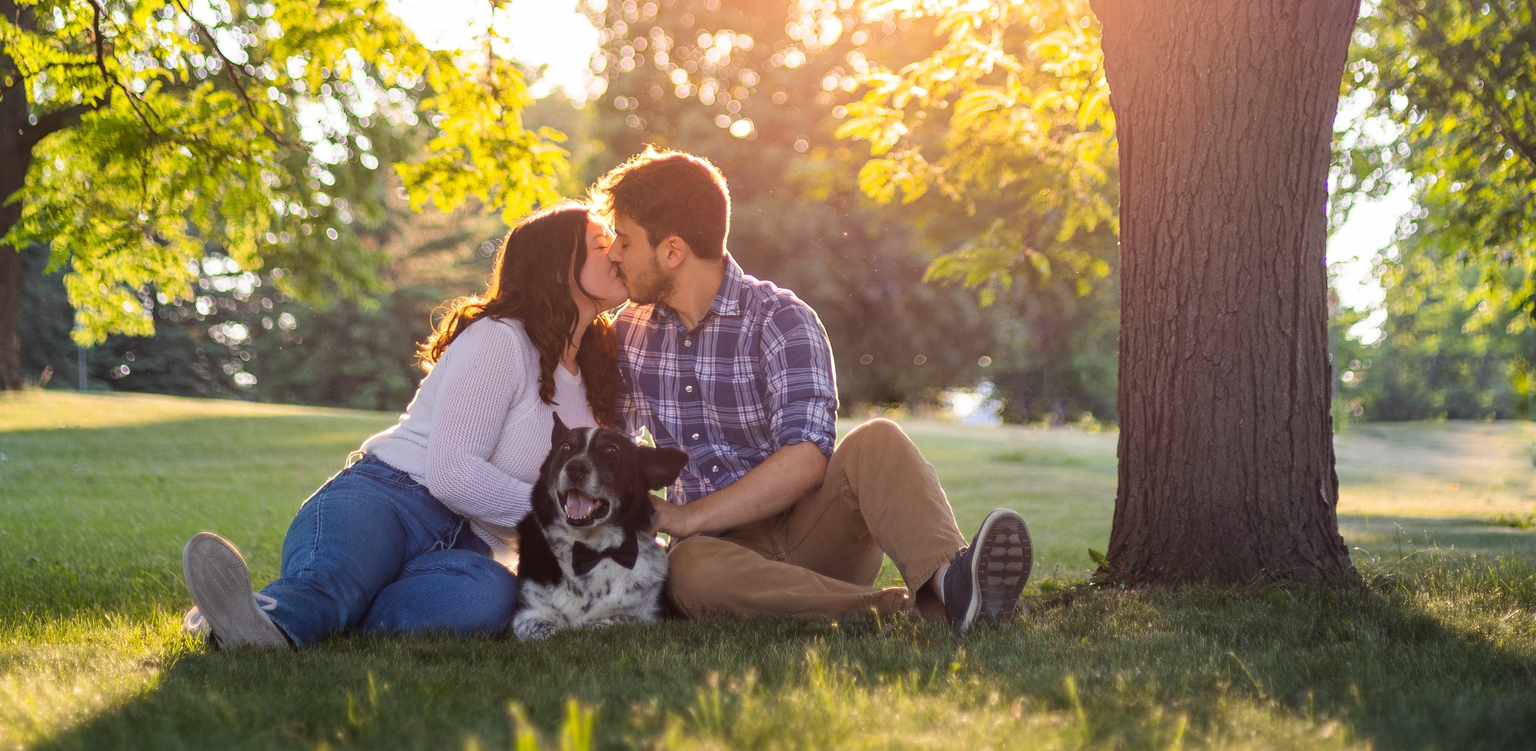
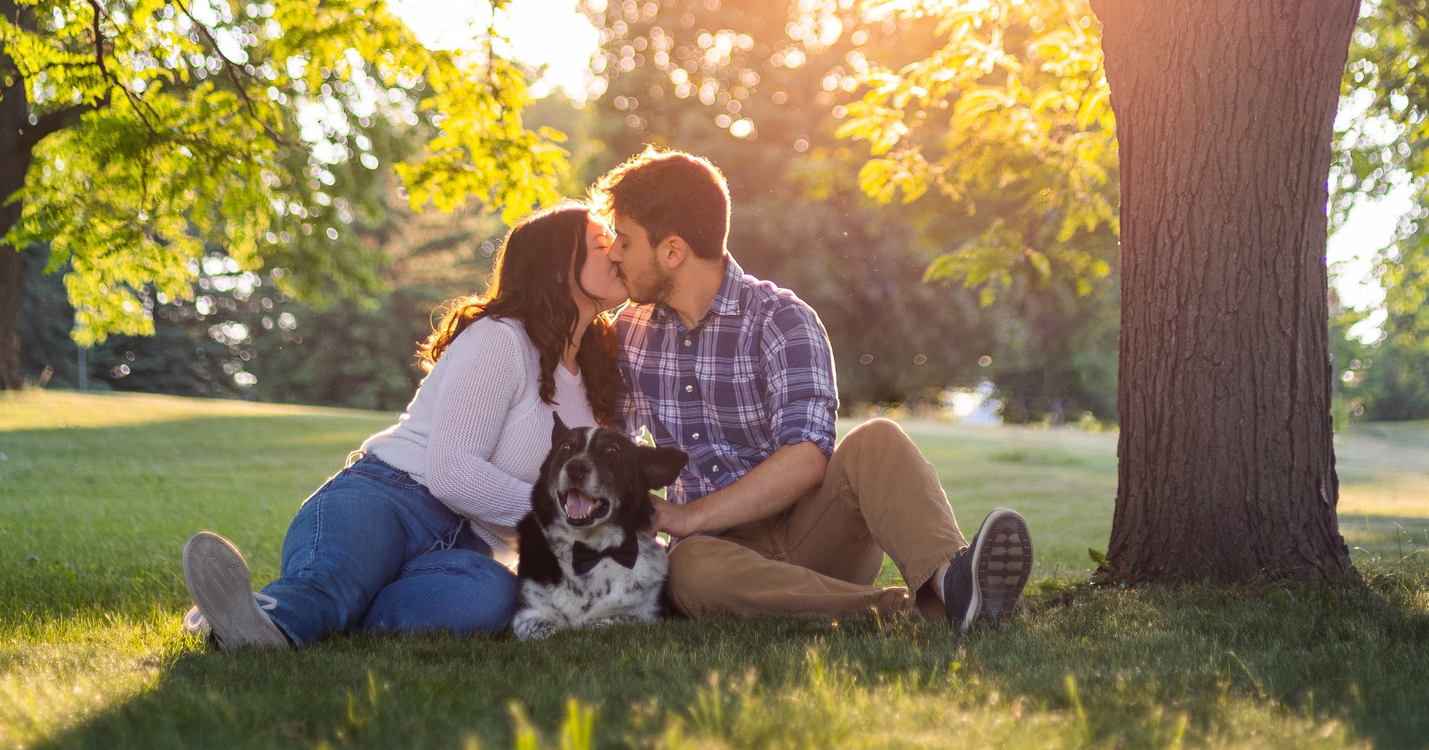
home page setup

diff --git a/src/index.css b/src/index.css
@@ -20,3 +20,118 @@ code {
   /* other formats include: 'woff2', 'truetype, 'opentype',
                             'embedded-opentype', and 'svg' */
 }
+
+.hero-container {
+  /* background: url('/images/img-home.jpg') center center/cover no-repeat; */
+  height: 100vh;
+  width: 100%;
+  display: flex;
+  flex-direction: column;
+  justify-content: center;
+  align-items: center;
+  box-shadow: inset 0 0 0 1000px rgba(0, 0, 0, 0.2);
+  object-fit: contain;
+}
+
+.hero-container > img {
+  object-fit: cover;
+  width: 100%;
+  height: 100%;
+  position: fixed;
+  z-index: -1;
+}
+
+.hero-container > h1 {
+  font-family: Hatton;
+  color: #fff;
+  font-size: 100px;
+  margin-bottom: -50px;
+}
+
+.hero-container > p {
+  font-family: Hatton;
+  color: #fff;
+  font-size: 50px;
+  /* margin-top: -100px; */
+  /* margin-bottom: 70px; */
+}
+
+.hero-btns {
+  margin-top: 32px;
+}
+
+.hero-btns .btn {
+  margin: 6px;
+}
+
+.fa-play-circle {
+  margin-left: 4px;
+}
+
+@media screen and (max-width: 960px) {
+  .hero-container > h1 {
+    font-size: 70px;
+    /* margin-top: -150px; */
+  }
+  .hero-container > p {
+    font-size: 35px;
+    /* margin-top: -150px; */
+    /* margin-bottom: 200px; */
+  }
+}
+
+@media screen and (max-width: 768px) {
+  .hero-container > h1 {
+    font-size: 50px;
+    /* margin-top: -100px; */
+  }
+  .hero-container > p {
+    font-size: 25px;
+    /* margin-top: -100px; */
+    /* margin-bottom: 105px; */
+  }
+
+  .btn-mobile {
+    display: block;
+    text-decoration: none;
+  }
+
+  .btn {
+    width: 100%;
+  }
+}
+
+.countdown-container {
+  max-width: 900px;
+  min-height: 300px;
+  margin: 50px auto;
+  gap: 80px;
+  background-color: #fff;
+  box-shadow: 10px 10px 0 rgba(0, 0, 0, 0.1);
+  display: flex;
+  flex-direction: column;
+  flex-wrap: wrap;
+  justify-content: center;
+  align-items: center;
+}
+
+.countdown-values {
+  display: flex;
+}
+
+.big-text {
+  font-weight: bold;
+  font-size: 6.5rem;
+  line-height: 1;
+  margin: 10px;
+}
+
+.countdown-value {
+  width: 120px;
+  margin: 10px 20px;
+  text-align: center;
+}
+
+.countdown-value span {
+  font-size: 1.3rem;
+}

diff --git a/src/pages/Home.js b/src/pages/Home.js
@@ -1,39 +1,20 @@
 import React, { Component } from "react";
 import photo from "../assets/J&I_Engagement-006.jpg";
+import { Countdown } from "../components/Countdown";
 
 class Home extends Component {
   render() {
-    const imageStyle = {
-      backgroundImage:
-        "linear-gradient(to right, rgba(0, 0, 0, 0) 50%,rgba(0, 0, 0, .3)),url(" +
-        photo +
-        ")",
-      height: "100vh",
-      //marginTop: "-70px",
-      fontSize: "50px",
-      backgroundPosition: "center",
-      backgroundSize: "cover",
-      backgroundRepeat: "no-repeat",
-    };
-    const nameStyle = {
-      fontFamily: "Hatton",
-      color: "white",
-    };
     return (
-      <div style={imageStyle}>
-        <div
-          style={{
-            display: "block",
-            textAlign: "right",
-            verticalAlign: "top",
-            position: "absolute",
-            left: "65%",
-          }}
-        >
-          <h1 style={nameStyle}> Isaac Long </h1>
-          <p style={nameStyle}>- And - </p>
-          <h1 style={nameStyle}> Jenna Griffin </h1>
-        </div>
+      <div className="hero-container">
+        <img
+          src={photo}
+          alt="Isaac and Jenna kissing with their dog Duke at their feet"
+        />
+        <h1> Isaac Long </h1>
+        <p>- And - </p>
+        <h1> Jenna Griffin </h1>
+        <p>Cass City, MI</p>
+        <Countdown />
       </div>
     );
   }

diff --git a/src/components/Countdown.js b/src/components/Countdown.js
@@ -1,0 +1,33 @@
+import { useState, useEffect } from "react";
+
+export const Countdown = () => {
+  const [days, setDays] = useState(0);
+  const [hours, setHours] = useState(0);
+  const [minutes, setMinutes] = useState(0);
+  const [seconds, setSeconds] = useState(0);
+  const startdate = "21 September 2024";
+  const [currentDate, setCurrentDate] = useState(new Date());
+
+  useEffect(() => {
+    const weddingdate = new Date(startdate);
+    const interval = setInterval(() => {
+      setCurrentDate(new Date());
+    });
+    const totalSeconds = (weddingdate - currentDate) / 1000;
+
+    setDays(formatTime(Math.floor(totalSeconds / 3600 / 24)));
+    setHours(Math.floor(totalSeconds / 3600) % 24);
+    setMinutes(Math.floor(totalSeconds / 60) % 60);
+    setSeconds(Math.floor(totalSeconds % 60));
+  }, [currentDate]);
+
+  function formatTime(time) {
+    return time < 10 ? `0${time}` : time;
+  }
+
+  return (
+    <p>
+      {days} days {hours} hours {minutes} minutes {seconds} seconds
+    </p>
+  );
+};

diff --git a/src/App.js b/src/App.js
@@ -1,7 +1,7 @@
 import "./App.css";
 import Navbar from "./components/Navbar";
 import { BrowserRouter as Router, Routes, Route } from "react-router-dom";
-import About from "./pages/About";
+import About from "./pages/Schedule";
 import RSVP from "./pages/RSVP";
 import Admin from "./pages/Admin";
 import Home from "./pages/Home";
@@ -13,7 +13,7 @@ function App() {
         <Navbar />
         <Routes>
           <Route path="/" exact element={<Home />} />
-          <Route path="/about" element={<About />} />
+          <Route path="/schedule" element={<About />} />
           <Route path="/blogs" element={<RSVP />} />
           <Route path="/admin" element={<Admin />} />
         </Routes>

diff --git a/src/components/Navbar.js b/src/components/Navbar.js
@@ -16,7 +16,7 @@ import Typography from "@mui/material/Typography";
 import Button from "@mui/material/Button";
 
 const drawerWidth = 240;
-const navItems = ["About", "RSVP", "Admin"];
+const navItems = ["Schedule", "RSVP", "Admin"];
 
 function DrawerAppBar(props) {
   const { window } = props;
@@ -52,7 +52,7 @@ function DrawerAppBar(props) {
       <CssBaseline />
       <AppBar
         component="nav"
-        position="sticky"
+        position="fixed"
         style={{
           backgroundColor: "#7e7e7e",
         }}
